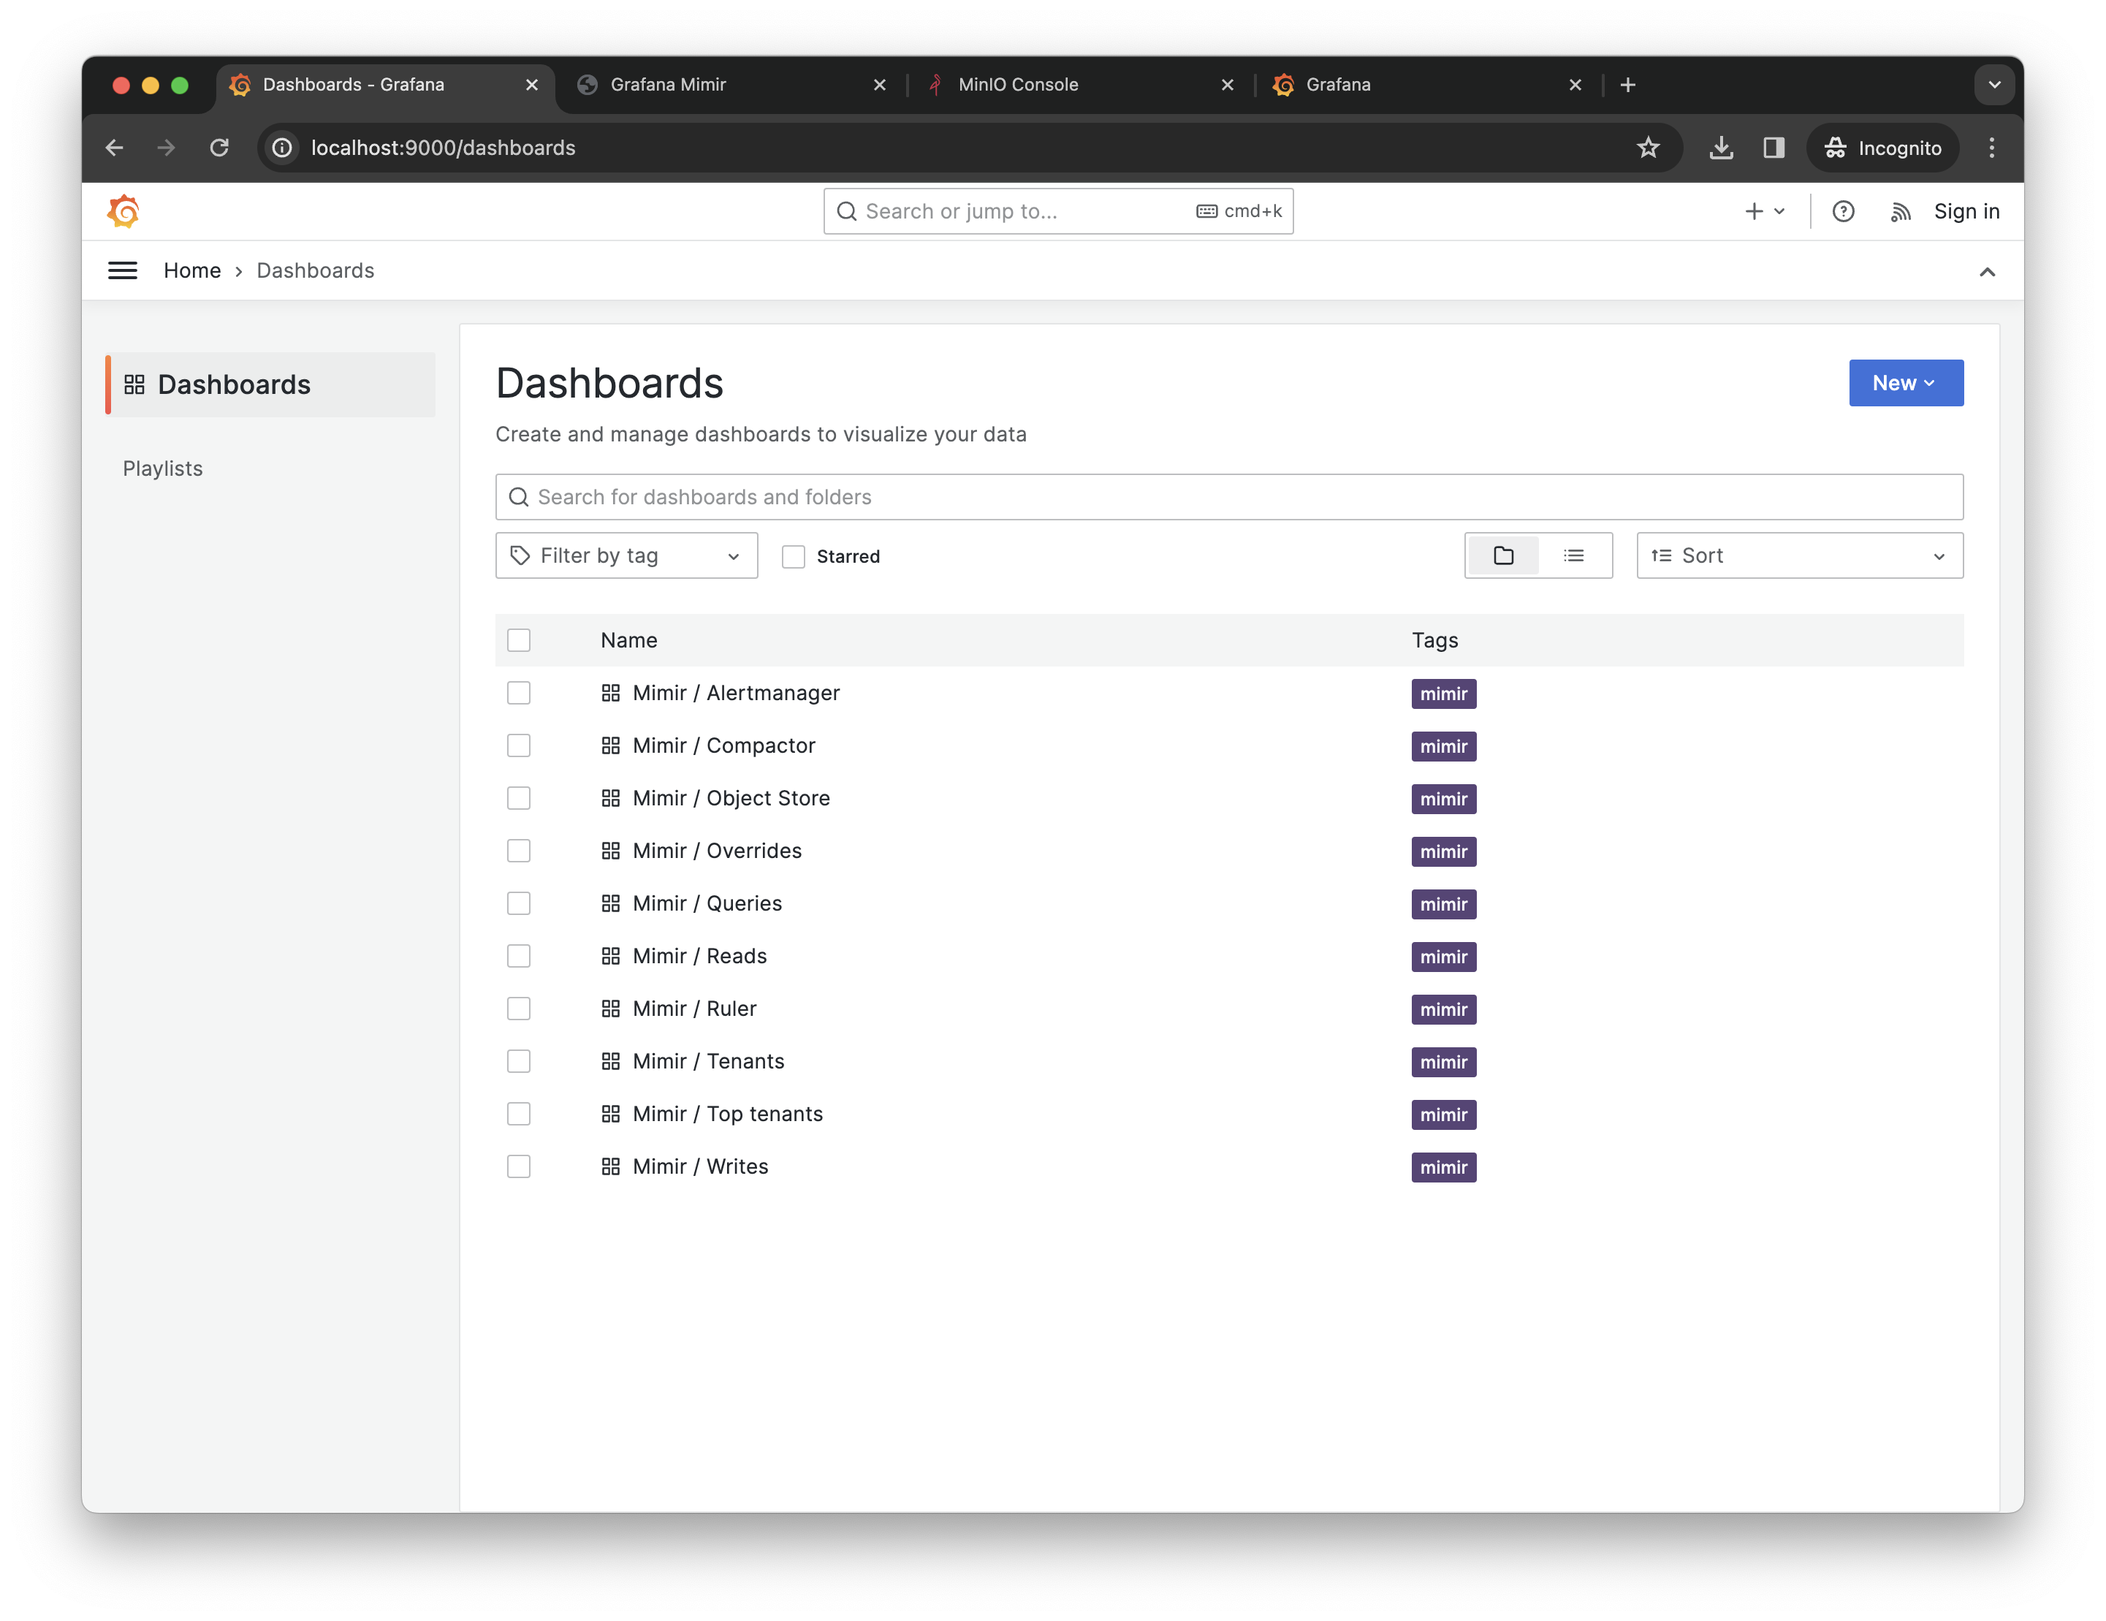
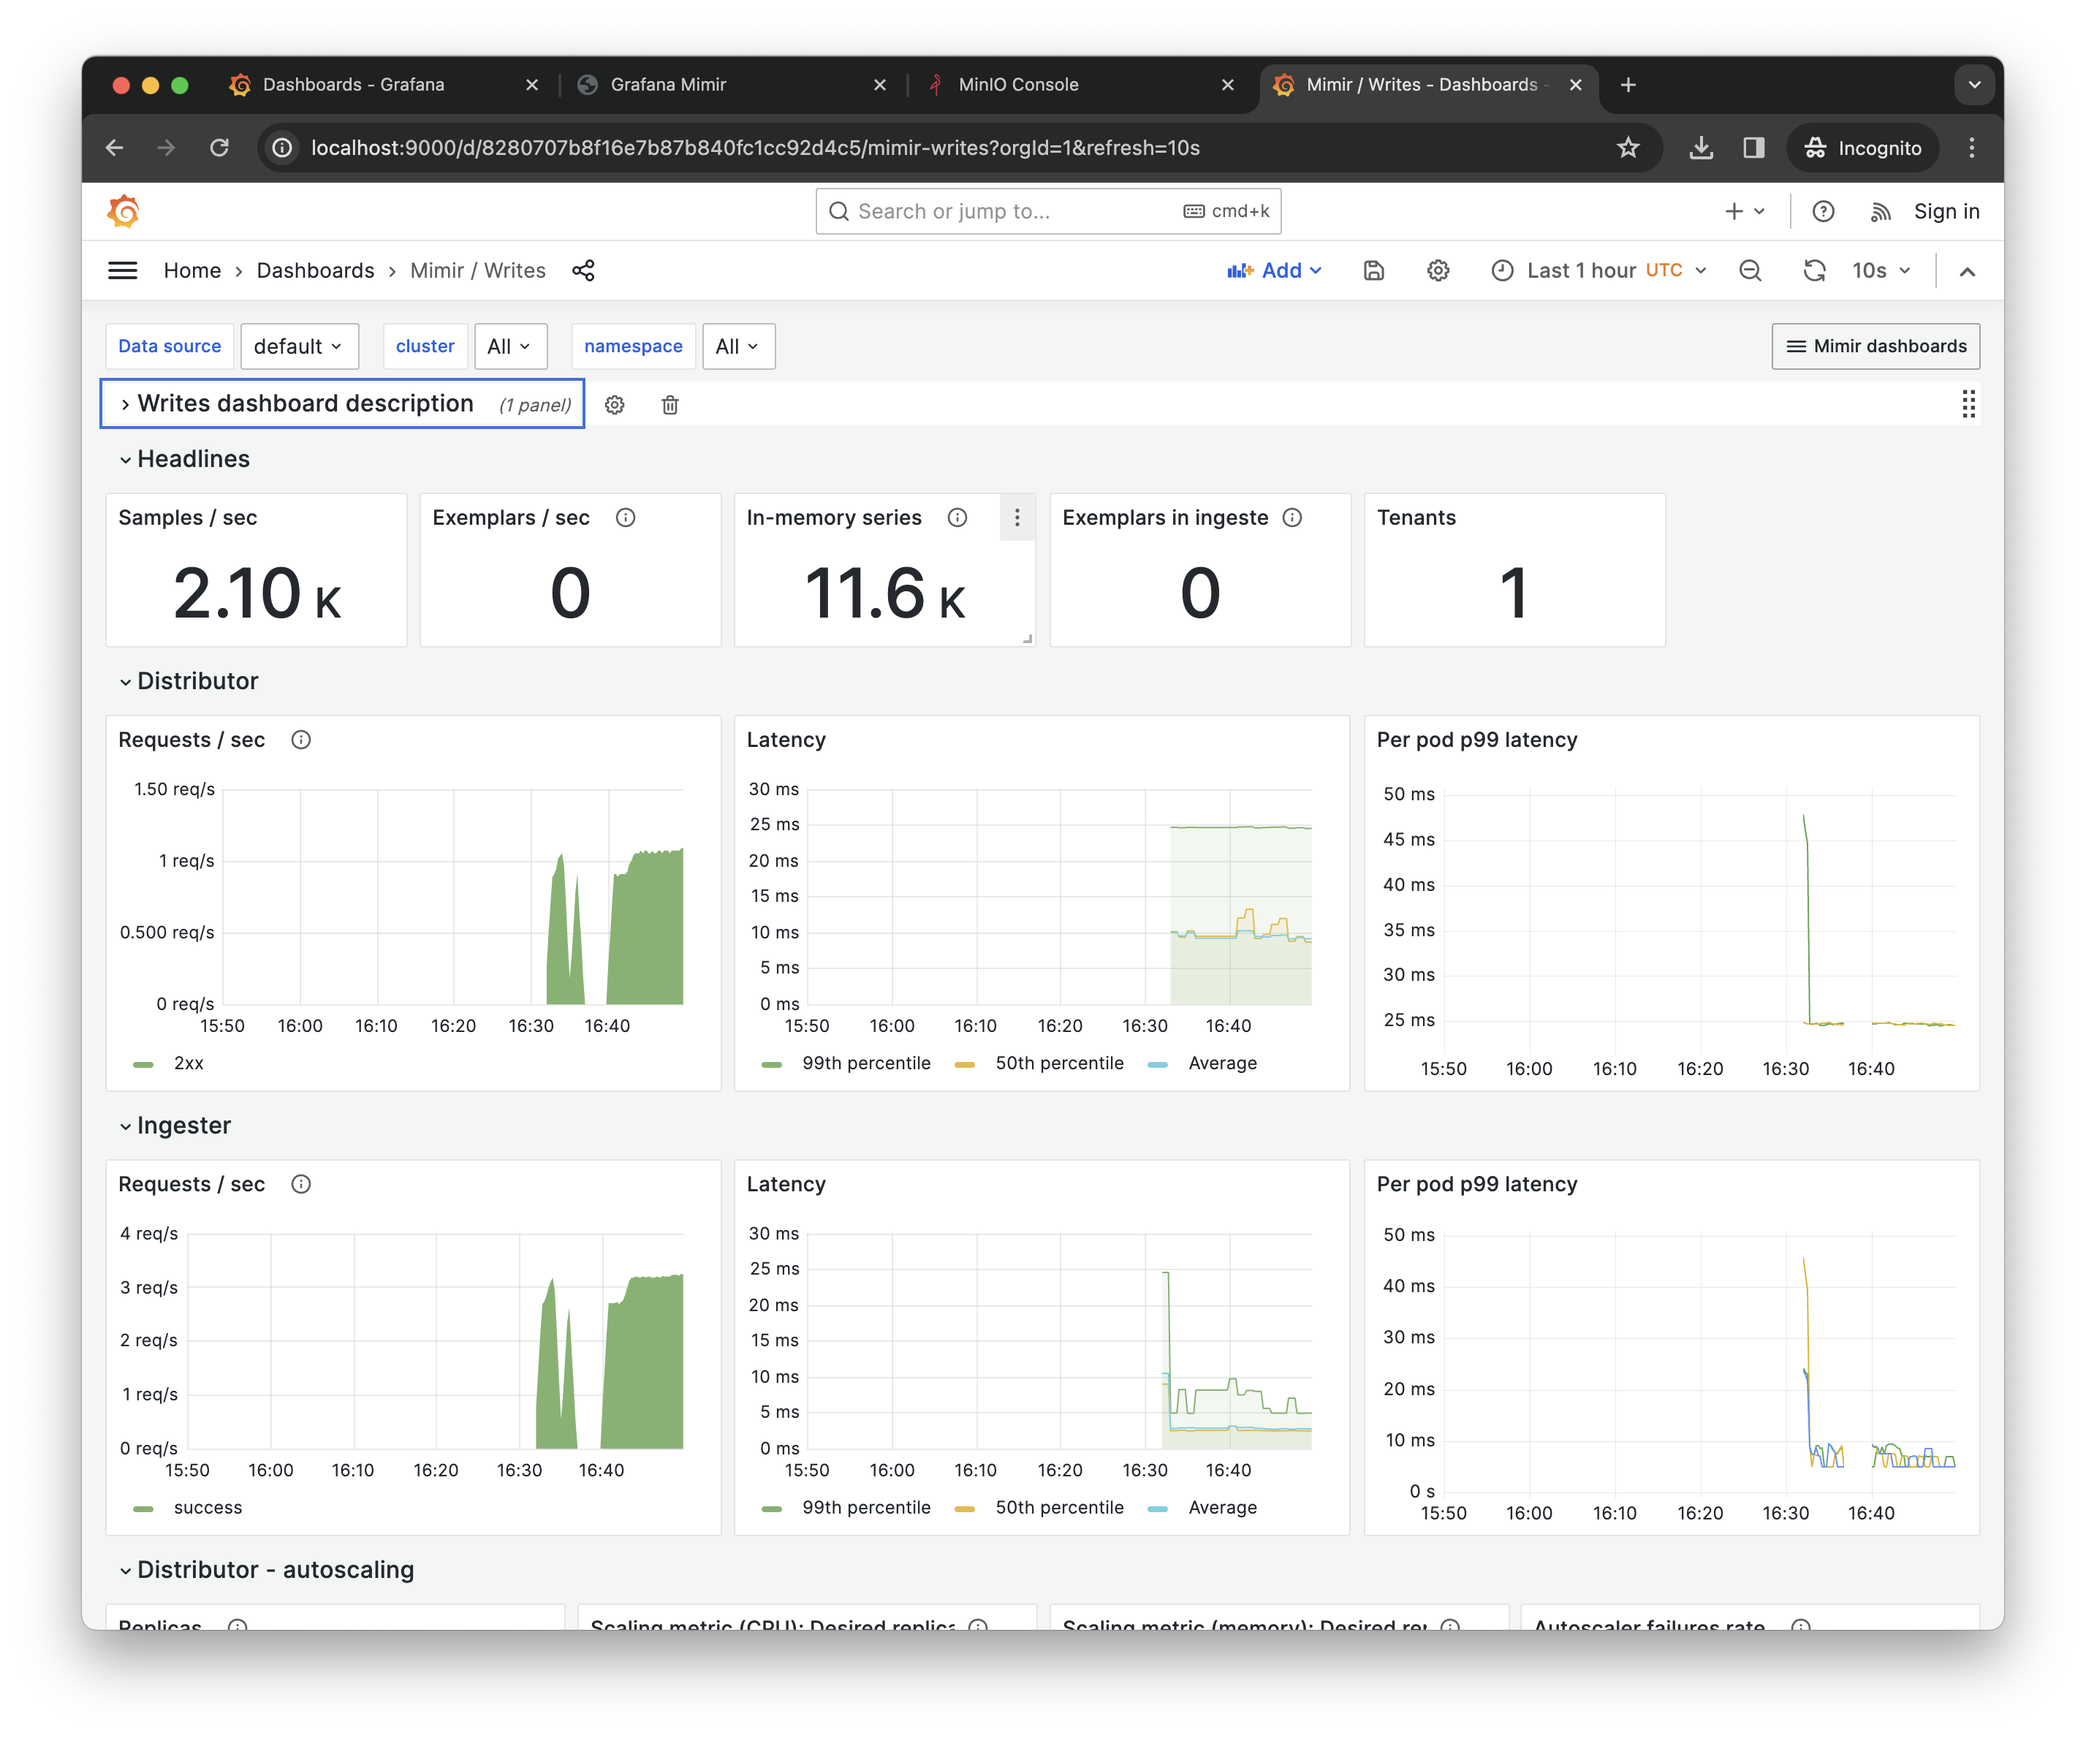
Grafana stack: add arch
GitOrigin-RevId: 31abbfe30fdf3b549a945947931f17b96b420641

diff --git a/grafana-stack/README.md b/grafana-stack/README.md
@@ -12,11 +12,14 @@
 docker compose up
 ```
 
+## Architecture
+
+![](.docs/arch.png)
+
 ## Examples
 
 ![](.docs/grafana1.png)
 ![](.docs/grafana2.png)
-![](.docs/grafana3.png)
 ![](.docs/mimir1.png)
 ![](.docs/minio1.png)
 ![](.docs/prometheus1.png)
